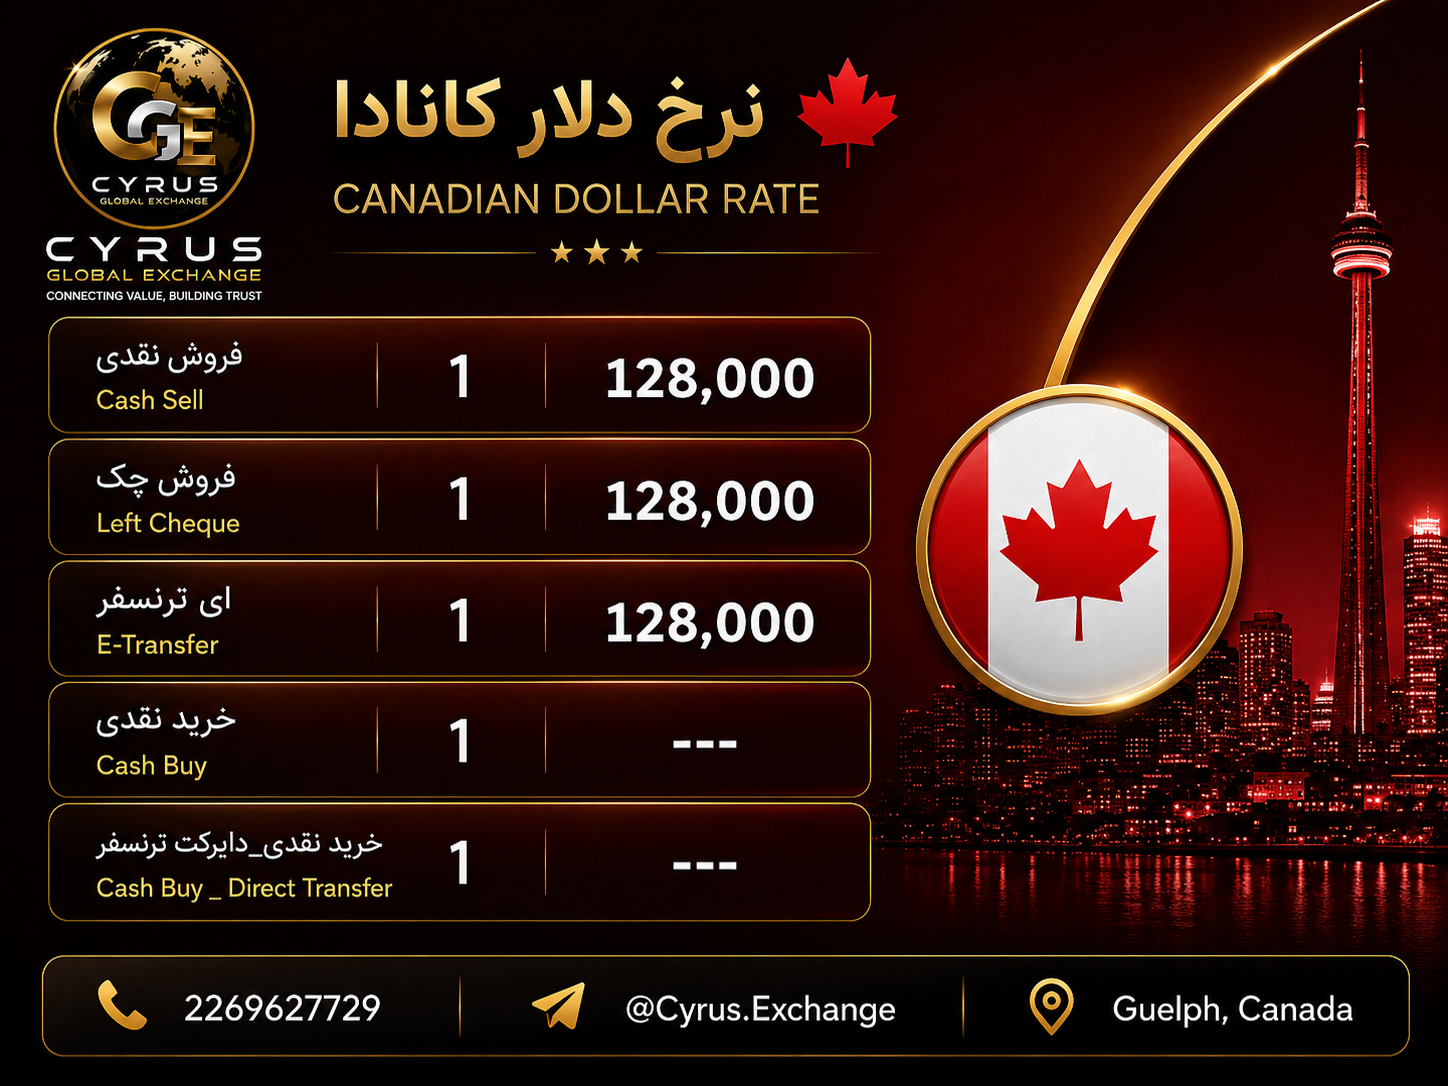
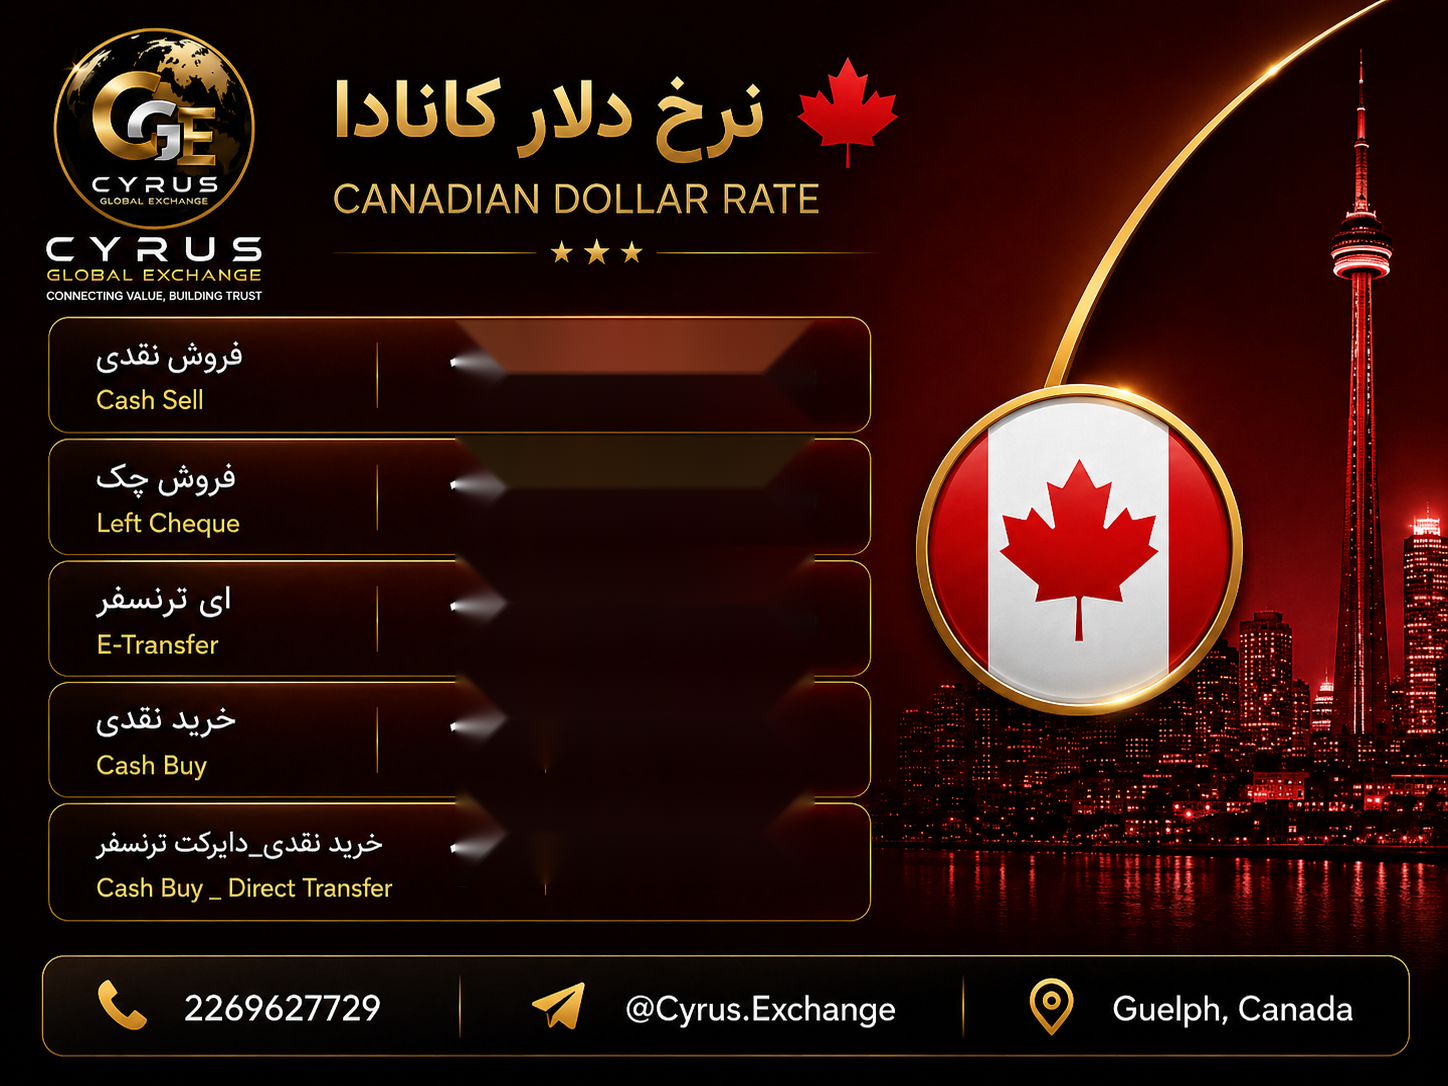
fix: remove '1' placeholder from CAD template and disable rectangle fill
Erased hardcoded '1' glyph pixels from all canada.png templates by
sampling adjacent background color; disabled draw.rectangle fill in
write_cell so price cells render cleanly on the natural template background.

diff --git a/rate_graphic_publisher.py b/rate_graphic_publisher.py
@@ -125,6 +125,19 @@ def _font(size: int) -> ImageFont.FreeTypeFont:
         return ImageFont.load_default()
 
 
+def _sample_bg(img: Image.Image, y1: int, y2: int, fallback: tuple = (40, 8, 8, 255)) -> tuple:
+    import statistics
+    pts = []
+    for y in range(y1 + 15, y2 - 15, 5):
+        for x in range(760, 835, 5):
+            r, g, b, a = img.getpixel((x, y))
+            if r < 120 and g < 80 and b < 80:
+                pts.append((r, g, b, a))
+    if not pts:
+        return fallback
+    return tuple(int(statistics.median([p[i] for p in pts])) for i in range(4))
+
+
 def write_cell(
     working:  Image.Image,
     master:   Image.Image,
@@ -140,7 +153,8 @@ def write_cell(
     cx, cy = x1 + bw // 2, y1 + bh // 2
 
     if bg_color:
-        ImageDraw.Draw(working).rectangle((x1, y1, x2, y2), fill=bg_color)
+#        ImageDraw.Draw(working).rectangle((x1, y1, x2, y2), fill=bg_color)
+        pass
     else:
         # Restore clean master region (wipes any previous render)
         working.paste(master.crop((x1, y1, x2, y2)), (x1, y1))
@@ -228,18 +242,22 @@ def generate_poster(currency: str, prices: dict) -> Path | None:
             return ""
         return f"{v:.2f}" if is_ratio else f"{int(v):,}"
 
-    WHITE    = (255, 255, 255, 255)
-    bg_color = None
+    WHITE = (255, 255, 255, 255)
+
+    def bg(box: list) -> tuple | None:
+        if currency == "CAD":
+            return _sample_bg(master, int(box[1]), int(box[3]))
+        return None
 
     sell_boxes = coords.get("sell_boxes", [])
     sell_keys  = coords.get("sell_keys", ["sell"] * len(sell_boxes))
     for box, key in zip(sell_boxes, sell_keys):
-        write_cell(working, master, box, fmt(prices.get(key)), WHITE, bg_color=bg_color)
+        write_cell(working, master, box, fmt(prices.get(key)), WHITE, bg_color=bg(box))
 
     buy_boxes = coords.get("buy_boxes", [])
     buy_keys  = coords.get("buy_keys", ["buy"] * len(buy_boxes))
     for box, key in zip(buy_boxes, buy_keys):
-        write_cell(working, master, box, fmt(prices.get(key)), WHITE, bg_color=bg_color)
+        write_cell(working, master, box, fmt(prices.get(key)), WHITE, bg_color=bg(box))
 
     out = OUTPUT_FILES[currency]
     working.convert("RGB").save(str(out), "PNG")
